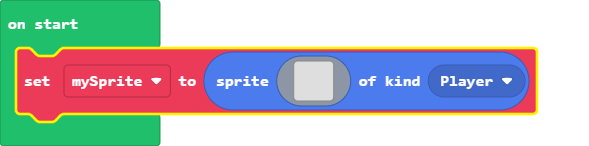
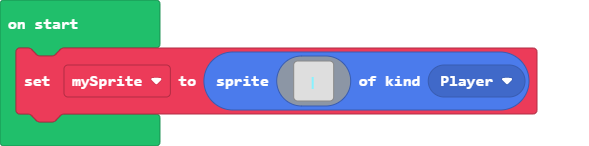
jnjnj

Changed region(s): [[0.0, 0.3014, 0.9168, 0.8493], [0.5195, 0.5205, 0.5501, 0.6027], [0.0306, 0.7671, 0.0611, 0.8219]]

diff --git a/main.ts b/main.ts
@@ -5,12 +5,12 @@ let mySprite = sprites.create(img`
     . . . . . . . . . . . . . . . . 
     . . . . . . . . . . . . . . . . 
     . . . . . . . . . . . . . . . . 
-    . . . . . . . . . . . . . . . . 
-    . . . . . . . . . . . . . . . . 
-    . . . . . . . . . . . . . . . . 
-    . . . . . . . . . . . . . . . . 
-    . . . . . . . . . . . . . . . . 
-    . . . . . . . . . . . . . . . . 
+    . . . . . . . 9 . . . . . . . . 
+    . . . . . . . 9 . . . . . . . . 
+    . . . . . . . 9 . . . . . . . . 
+    . . . . . . . 9 . . . . . . . . 
+    . . . . . . . 9 . . . . . . . . 
+    . . . . . . . 9 . . . . . . . . 
     . . . . . . . . . . . . . . . . 
     . . . . . . . . . . . . . . . . 
     . . . . . . . . . . . . . . . . 
